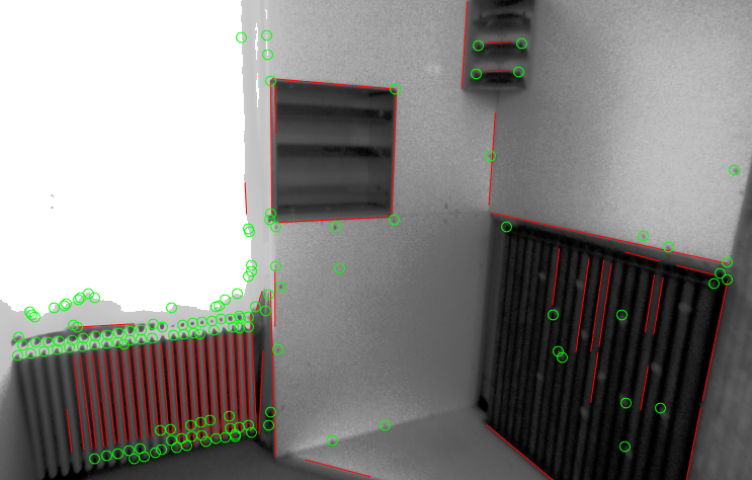
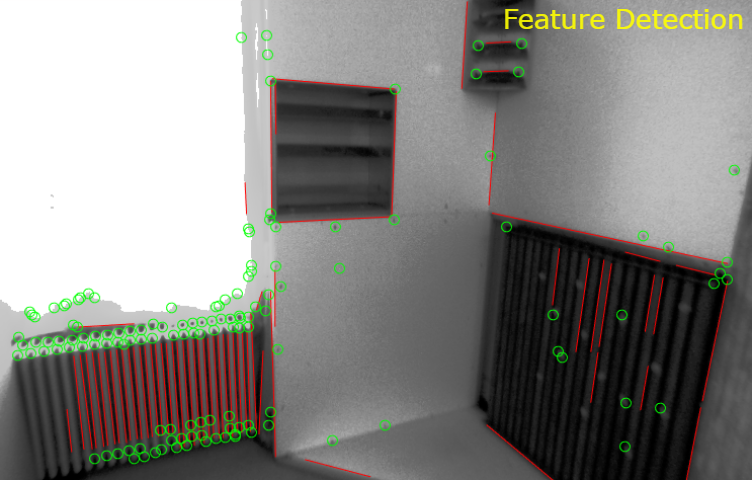
update README and fig

Changed region(s): [[0.6729, 0.0, 1.0, 0.0625]]

diff --git a/README.md b/README.md
@@ -5,14 +5,11 @@ Fast point-line feature detection for VIO(Visual-Inertial Odometry) based on gra
 ## Demo
 We tested on the [EuRoc dataset](https://projects.asl.ethz.ch/datasets/doku.php?id=kmavvisualinertialdatasets) and the detection result of one frame from [V1_03_difficult](http://robotics.ethz.ch/~asl-datasets/ijrr_euroc_mav_dataset/vicon_room1/V1_03_difficult/V1_03_difficult.bag) shows as follows.
 
-Feature detection
-<img src="https://github.com/LiuYuha0/point_line_feature_detection/blob/master/example/figure1.png" alt="fig1" width="360" height="240" border="10" />
-
-Dense area
-<img src="https://github.com/LiuYuha0/point_line_feature_detection/blob/master/example/DenseArea.png" alt="Dense" width="360" height="240" border="10" />
-
-Improved
-<img src="https://github.com/LiuYuha0/point_line_feature_detection/blob/master/example/figure2.png" alt="fig2" width="360" height="240" border="10" />
+<div align="center">
+<img src="https://github.com/LiuYuha0/point_line_feature_detection/blob/master/example/figure1.png" alt="fig1" width="33%" />
+<img src="https://github.com/LiuYuha0/point_line_feature_detection/blob/master/example/DenseArea.png" alt="Dense" width="33%" />
+<img src="https://github.com/LiuYuha0/point_line_feature_detection/blob/master/example/figure2.png" alt="fig2" width="33%" />
+</div>
 
 ## Run
 Clone the repository
@@ -26,11 +23,11 @@ Opne matlab and run
 ```sh
 main.m
 ```
-**Note**: If you want to test on your own dataset, do not forget to modify camera parameters!
+**NOTICE**: If you want to test on your own dataset, do not forget to modify camera parameters!
 
 ## Test Result
-V1_01_easy
-<img src="https://github.com/LiuYuha0/point_line_feature_detection/blob/master/example/V1_01_easy.png" alt="result1" width="360" height="240" border="10" />
-
-V1_03_difficult
-<img src="https://github.com/LiuYuha0/point_line_feature_detection/blob/master/example/V1_03_difficult.png" alt="result2" width="360" height="240" border="10" />
+In order to verify the performance of this algorithm, we tested it on whole dataset and the results of time consume show in Fig.1(V1_01_easy) and Fig.2(V1_03_difficult).
+<div align="center">
+<img src="https://github.com/LiuYuha0/point_line_feature_detection/blob/master/example/V1_01_easy.png" alt="result1" width="48%" />
+<img src="https://github.com/LiuYuha0/point_line_feature_detection/blob/master/example/V1_03_difficult.png" alt="result3" width="48%" />
+</div>
